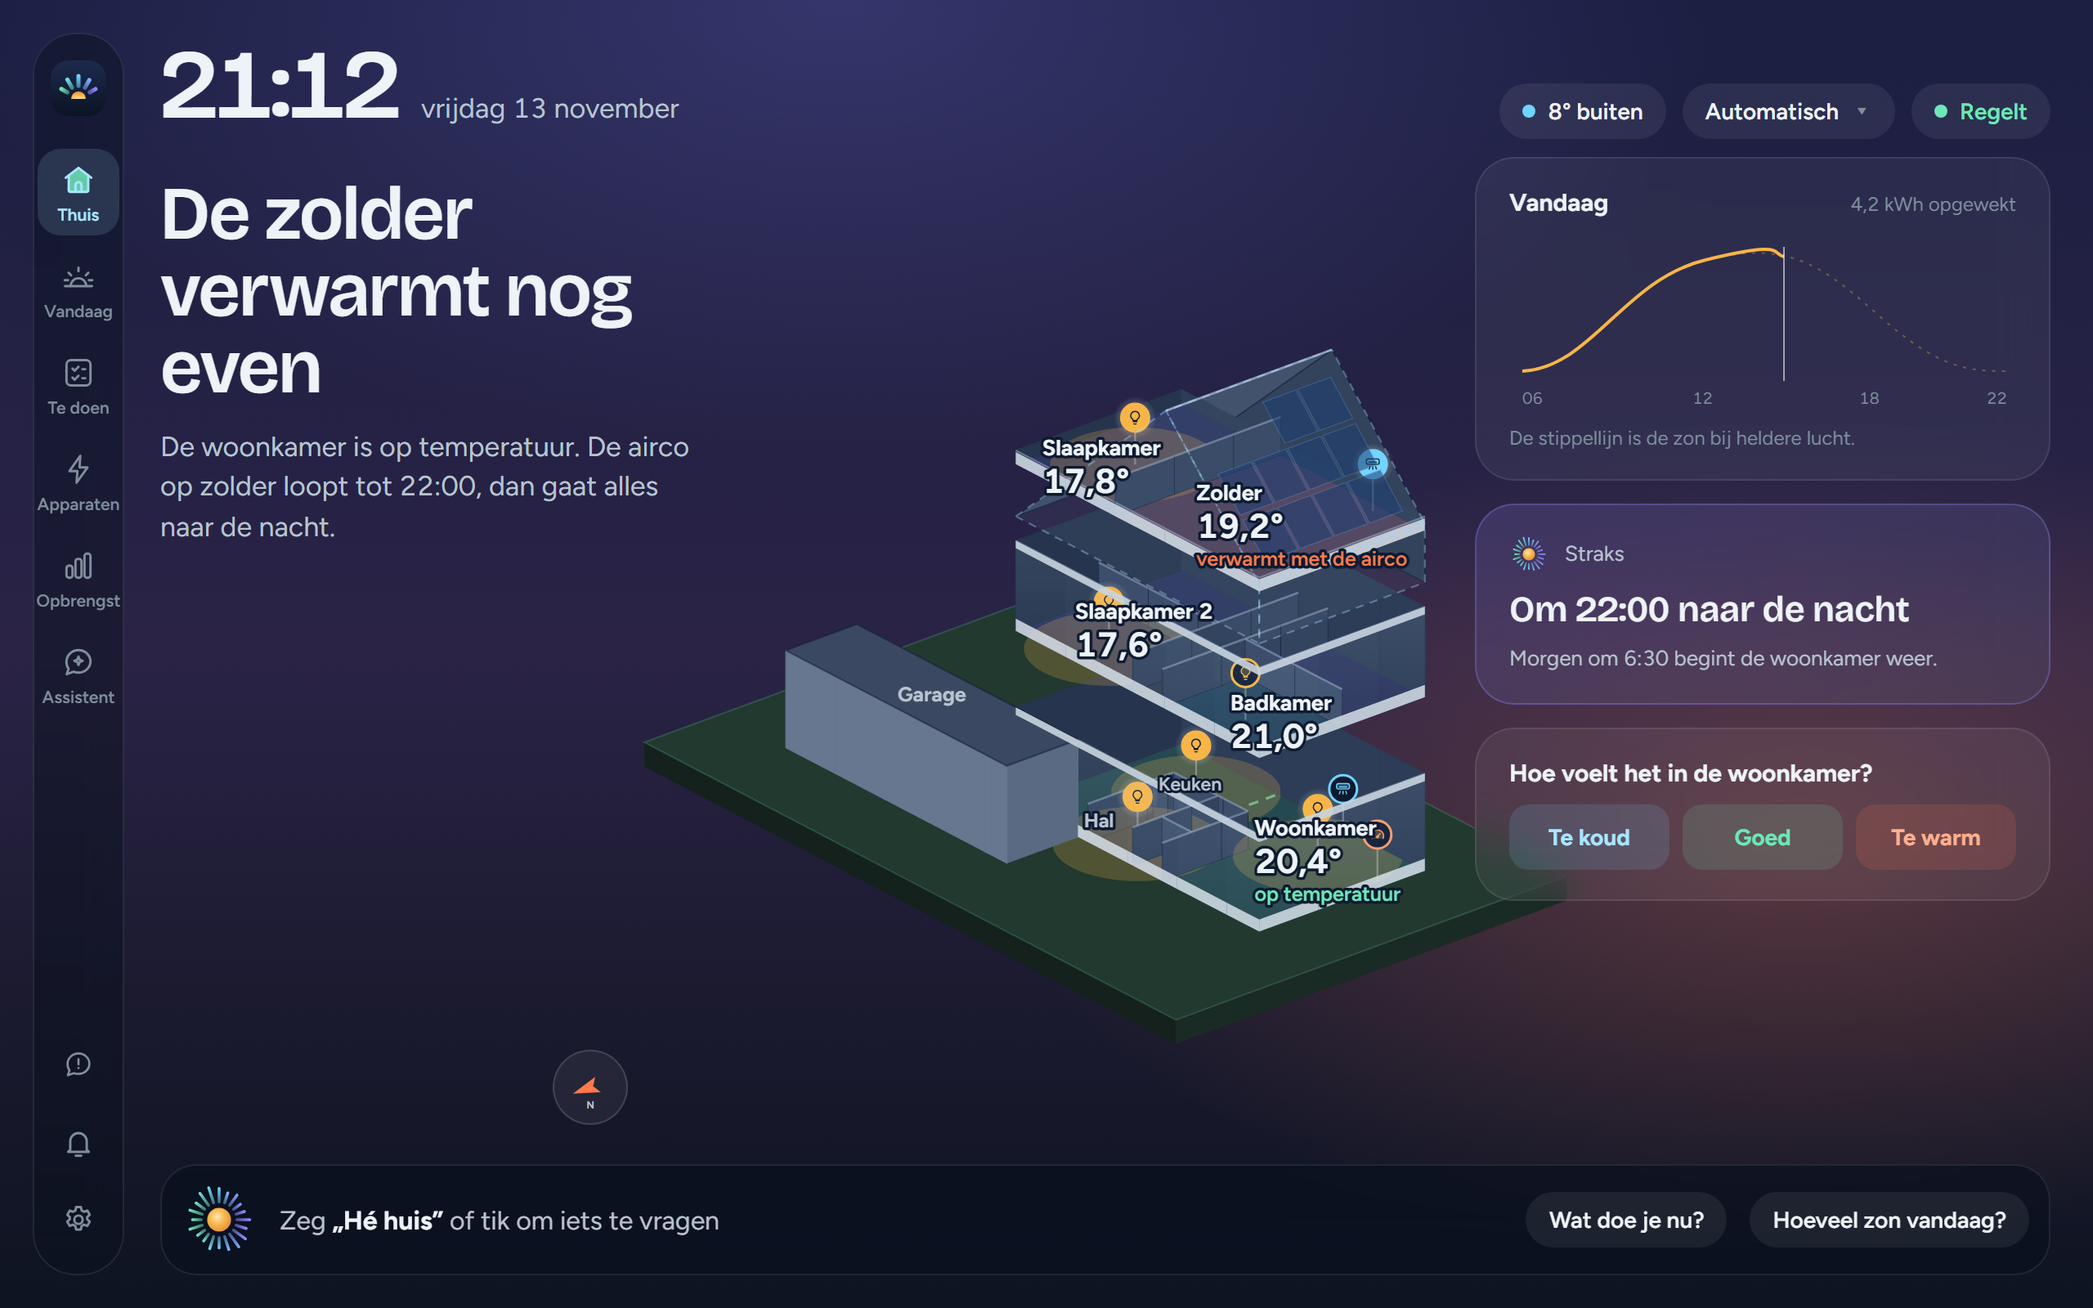
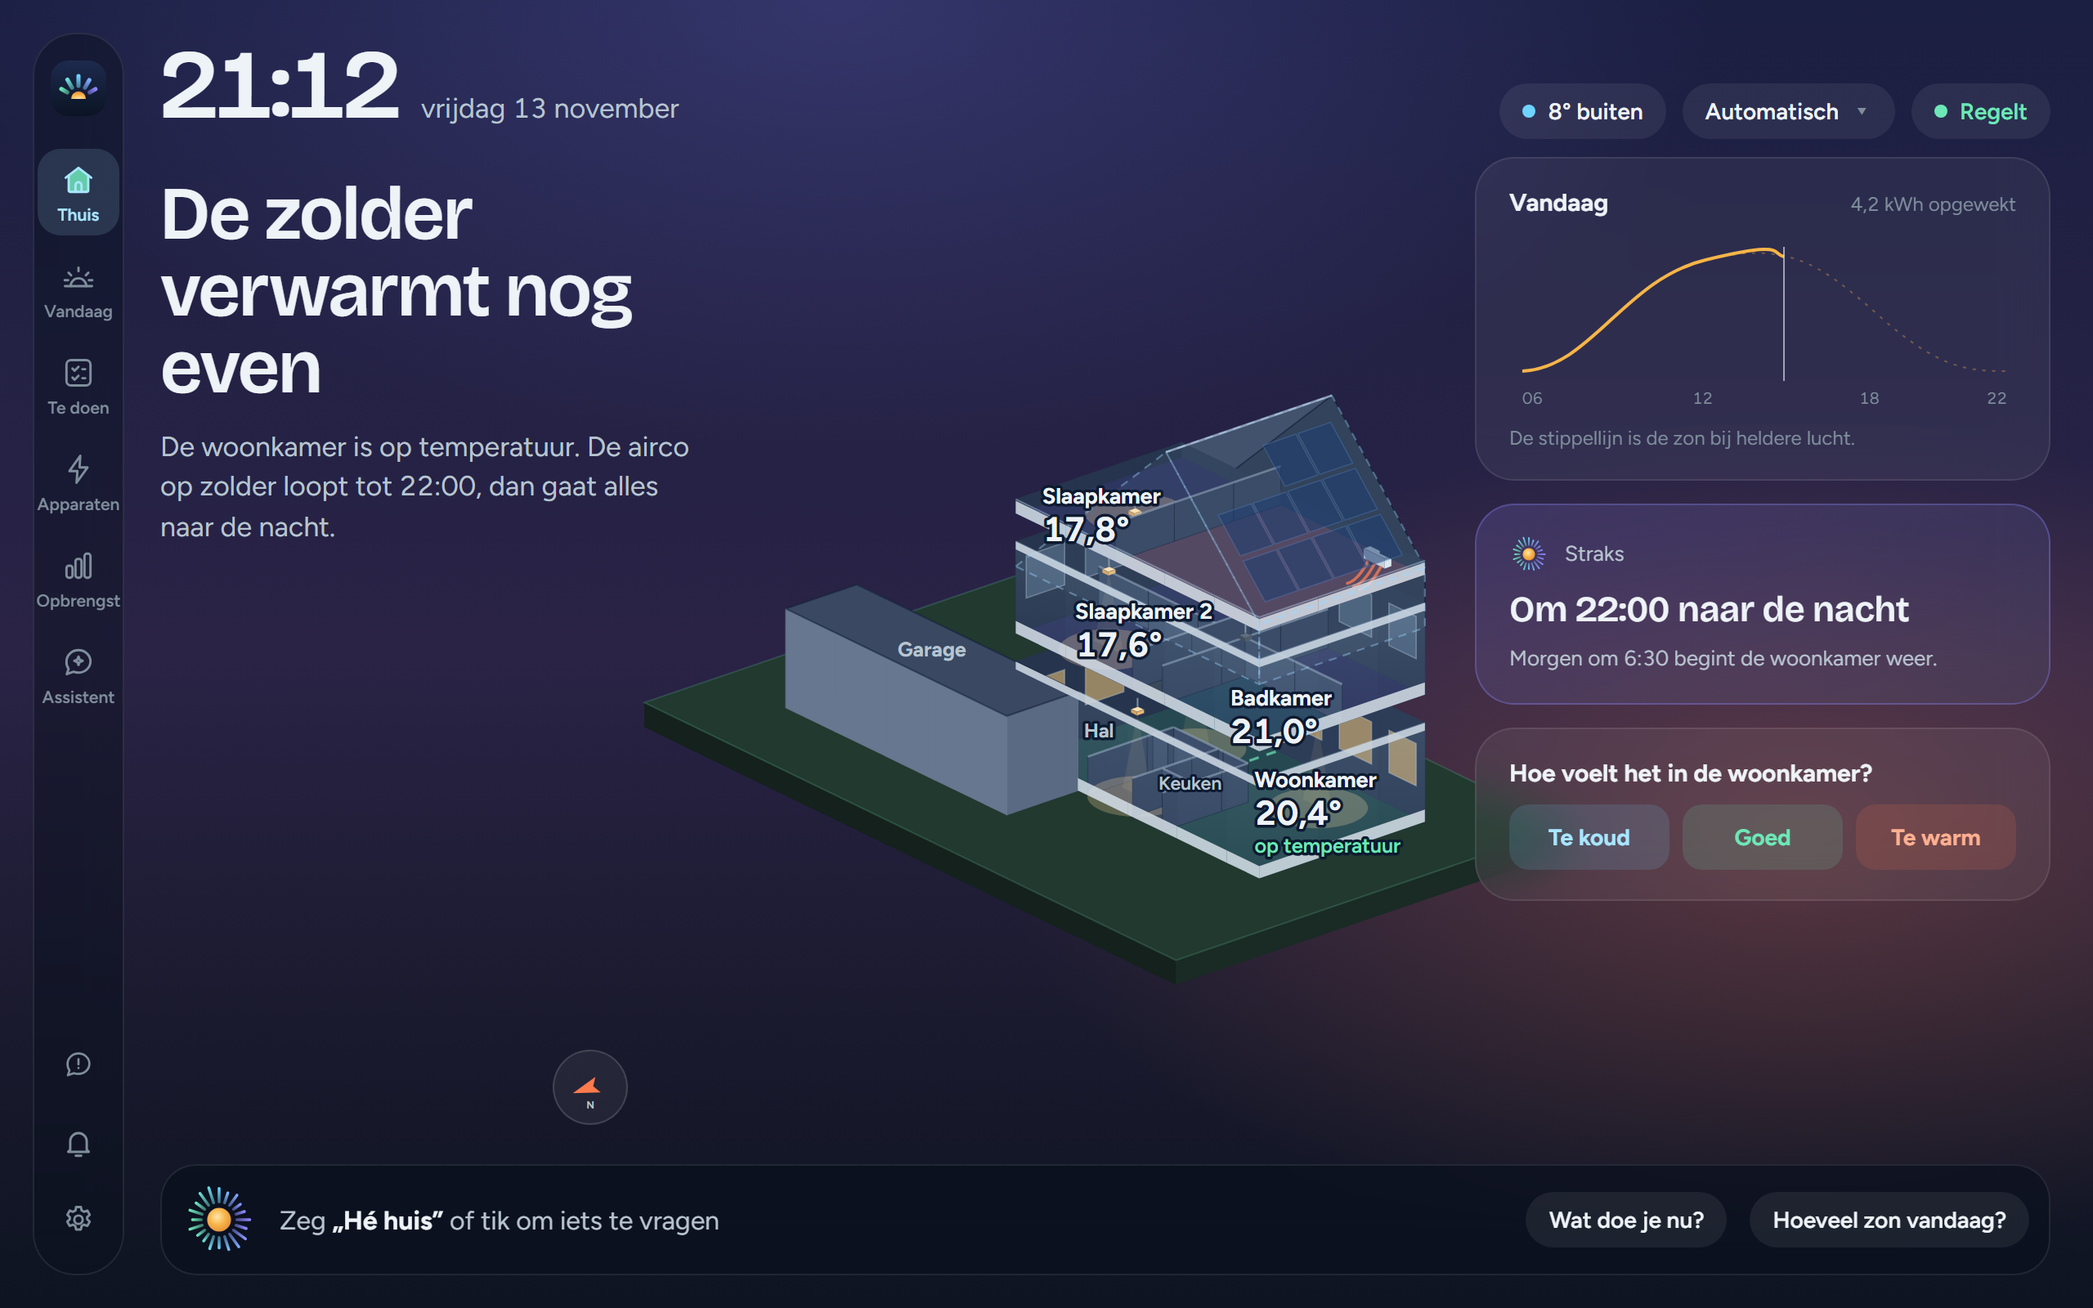
Schets huis op maat: apparaten als in het poppenhuis, geen bolletjes
Ricardo vond de bolletjes onrustig en het poppenhuis van main mooier; zijn
keuze: het poppenhuis op de echte vorm. Een airco is een witte kast hoog aan
de muur met luchtstroompjes, een lamp een hanglamp met licht op de vloer,
witgoed een kast met trommel tegen de muur; meters, rookmelders,
thermostaten en camera's tekent het niet, zoals het poppenhuis. Ramen in de
muren (warm 's avonds), tuinlampjes en een zonnescherm buiten. De etages
dichter op elkaar en wat lager gekeken; passend: 'huis' zet het huis groot
in beeld.

Changed region(s): [[0.3125, 0.25, 0.75, 0.7812]]

diff --git a/frontend/kit/huis-maat.js b/frontend/kit/huis-maat.js
@@ -28,7 +28,6 @@
  *             vlakken [{ p: [[x, y]...], soort: terras | oprit | pad | border }],
  *             gebouwen [{ x, y, b, d, h, dak?, naam?, buur? }] (een tuinhuis; buur: het huis ernaast, als schim),
  *             auto { x, y, b, d, kleur, laadt? }, apparaten [{ id, soort, x, y, z, naam? }]
- *   namen     de namen van de apparaten die aan staan, bij hun icoon
  */
 (function (global) {
   'use strict';
@@ -158,8 +157,10 @@
       return { b, ...d };
     });
     // Passend maken: alles wat er staat in beeld, met ruimte eromheen.
-    const punten = [...eiland.map(([x, y]) => [x, y, -0.7]), ...eiland.map(([x, y]) => [x, y, 0]), ...lagen.flatMap((l) => [[X0, Y0, l.top], [X1, Y0, l.top], [X1, Y1, l.top], [X0, Y1, l.top]]), ...daken.flatMap((d) => d.vlakken.flatMap((v) => v.p))];
-    for (const q of buiten.gebouwen ?? []) if (!q.buur) punten.push([q.x, q.y, q.h + 1.5], [q.x + q.b, q.y + q.d, 0]);
+    // Passend: om alles wat er staat, of (passend: 'huis') alleen om het huis, zodat het groot in beeld staat en de tuin eromheen wegloopt.
+    const alleenHuis = o.passend === 'huis';
+    const punten = [...(alleenHuis ? [] : eiland.map(([x, y]) => [x, y, -0.7])), ...(alleenHuis ? [[X0 - 1, Y0 - 1, 0], [X1 + 1, Y0 - 1, 0], [X1 + 1, Y1 + 1, 0], [X0 - 1, Y1 + 1, 0]] : eiland.map(([x, y]) => [x, y, 0])), ...lagen.flatMap((l) => [[X0, Y0, l.top], [X1, Y0, l.top], [X1, Y1, l.top], [X0, Y1, l.top]]), ...daken.flatMap((d) => d.vlakken.flatMap((v) => v.p))];
+    if (!alleenHuis) for (const q of buiten.gebouwen ?? []) if (!q.buur) punten.push([q.x, q.y, q.h + 1.5], [q.x + q.b, q.y + q.d, 0]);
     const kp = punten.map((p) => kaal(...p));
     const rand = o.rand ?? 18;
     const [minX, maxX, minY, maxY] = [Math.min(...kp.map((p) => p[0])), Math.max(...kp.map((p) => p[0])), Math.min(...kp.map((p) => p[1])), Math.max(...kp.map((p) => p[1]))];
@@ -177,16 +178,28 @@
     let s = `<defs><radialGradient id="hm-gloed"><stop offset="0" stop-color="#fff" stop-opacity="0.9"/><stop offset="1" stop-color="#fff" stop-opacity="0"/></radialGradient><linearGradient id="hm-glas" x1="0" y1="0" x2="0" y2="1"><stop offset="0" stop-color="#bfe6ff" stop-opacity="0.10"/><stop offset="1" stop-color="#bfe6ff" stop-opacity="0.03"/></linearGradient></defs>`;
 
     const labels = [];
-    /** Een apparaat als rond icoon, zoals bij Je huis; wat draait, gloeit. Met `namen` ook de naam eronder. */
-    const icoon = (b, a, kleur, draait) => {
-      const R = o.icoon ?? 8.5;
-      const naam = global.iconen?.heeft?.(a.soort) ? a.soort : { meter: 'klimaat', rookmelder: 'melding' }[a.soort] ?? 'apparaat';
-      const svg = global.iconen ? global.iconen.svg(global.iconen.heeft(naam) ? naam : 'apparaat').replace('<svg ', `<svg x="${(b[0] - R * 0.62).toFixed(1)}" y="${(b[1] - R * 0.62).toFixed(1)}" width="${(R * 1.24).toFixed(1)}" height="${(R * 1.24).toFixed(1)}" style="color:${draait ? '#0d1a30' : kleur}" `) : '';
-      let x2 = `<circle cx="${b[0].toFixed(1)}" cy="${b[1].toFixed(1)}" r="${R}" fill="${draait ? kleur : '#0d1a30'}" stroke="${kleur}" stroke-width="1.5"/>${svg}`;
-      if (draait && o.namen && a.naam && !o.stil) labels.push({ x: b[0] - a.naam.length * 3, y: b[1] + R + 2, b: a.naam.length * 6, h: 13, prio: 0.5, s: `<text x="${b[0].toFixed(1)}" y="${(b[1] + R + 13).toFixed(1)}" text-anchor="middle" ${FONT} font-size="10.5" font-weight="700" fill="${kleur}" paint-order="stroke" stroke="#0d1a30" stroke-width="3" stroke-linejoin="round">${esc(a.naam)}</text>` });
-      return x2;
+    /** Een doos van x0..x1, y0..y1, z0..z1: de twee zijkanten naar de kijker en de bovenkant. Kleuren: [boven, zijkant x, zijkant y]. */
+    const doos3 = (x0, x1, y0, y1, z0, z1, kl) => {
+      const [a0, a1] = [Math.min(x0, x1), Math.max(x0, x1)];
+      const [b0, b1] = [Math.min(y0, y1), Math.max(y0, y1)];
+      const xKant = naarKijker(-1, 0) ? a0 : a1;
+      const yKant = naarKijker(0, -1) ? b0 : b1;
+      const zx = `<path d="${vlak([[xKant, b0, z0], [xKant, b1, z0], [xKant, b1, z1], [xKant, b0, z1]])}" fill="${kl[1]}"/>`;
+      const zy = `<path d="${vlak([[a0, yKant, z0], [a1, yKant, z0], [a1, yKant, z1], [a0, yKant, z1]])}" fill="${kl[2]}"/>`;
+      return zx + zy + `<path d="${vlak([[a0, b0, z1], [a1, b0, z1], [a1, b1, z1], [a0, b1, z1]])}" fill="${kl[0]}" stroke="rgb(13 26 48 / 0.25)" stroke-width="0.5"/>`;
     };
-    // Het eiland: de zijkanten naar de kijker, dan het gras.
+    /** Een cirkel op een staand vlak (de trommel van een droger): `as` is de as waar het vlak haaks op staat. */
+    const cirkel = (cx, cy, cz, r, as, attr) => {
+      const pp = [];
+      for (let i = 0; i < 18; i++) {
+        const h = (i / 18) * 2 * Math.PI;
+        pp.push(as === 'x' ? [cx, cy + Math.cos(h) * r, cz + Math.sin(h) * r] : [cx + Math.cos(h) * r, cy, cz + Math.sin(h) * r]);
+      }
+      return `<path d="${vlak(pp)}" ${attr}/>`;
+    };
+    const KAST = ['#eef3f7', '#dfe7ee', '#c3ced8'];
+    const WIT = ['#e9eef2', '#d7dee5', '#b9c3cd'];
+    // Het eiland    // Het eiland: de zijkanten naar de kijker, dan het gras.
     const zijden = [];
     for (let i = 0; i < 4; i++) {
       const [a, b] = [eiland[i], eiland[(i + 1) % 4]];
@@ -329,6 +342,14 @@
       }
       const stukken = [];
       const muren = randen(v, isMuur);
+      // In welke ruimtes een lamp aan staat (voor de ramen 's avonds).
+      const lichtIn = new Set();
+      {
+        const was1 = st.etage;
+        st.etage = laag.e.id;
+        for (const q of t.apparaatPunten()) if (q.a.soort === 'licht' && aan.has(q.a.id)) lichtIn.add(q.ruimte);
+        st.etage = was1;
+      }
       for (const run of muren) {
         const mid = Math.floor((run.van + run.tot) / 2);
         // Aan welke kant ligt de ruimte, en waar kijkt de muur heen.
@@ -351,28 +372,103 @@
             stukken.push({ d: d - 50, s: muur(z0, z0 + 0.35, '#d7e0e9', 'fill-opacity="0.85"') + muur(z0 + 0.35, top, 'url(#hm-glas)') + `<path d="M${pt(x0, y0, top)}L${pt(x1, y1, top)}" stroke="#cfe6ff" stroke-opacity="0.35" stroke-width="1"/>` });
           } else {
             const vul = voor ? (run.as === 'x' ? '#5a6a83' : '#66778f') : run.as === 'x' ? '#26354d' : '#2d3d57';
-            stukken.push({ d: voor ? d - 50 : d, s: muur(z0, top, vul, `stroke="${vul}" stroke-width="0.6"`) });
+            let raam = '';
+            // Een raam in elk stuk muur van een kamer (niet in een garage), zoals in het poppenhuis.
+            if (!dicht && (b - a) * CEL >= 1.4 && top - z0 >= 2) {
+              const r0 = 0.35 / ((b - a) * CEL);
+              const [rx0, ry0, rx1, ry1] = [x0 + (x1 - x0) * r0, y0 + (y1 - y0) * r0, x1 - (x1 - x0) * r0, y1 - (y1 - y0) * r0];
+              const warm = o.avond && lichtIn.has(binnen);
+              raam = `<path d="${vlak([[rx0, ry0, z0 + 0.9], [rx1, ry1, z0 + 0.9], [rx1, ry1, Math.min(top - 0.3, z0 + 2.1)], [rx0, ry0, Math.min(top - 0.3, z0 + 2.1)]])}" fill="${warm ? '#f3c77a' : '#8fb4d6'}" fill-opacity="${warm ? 0.55 : 0.28}" stroke="#c9d6e2" stroke-opacity="0.35" stroke-width="0.8"/>`;
+            }
+            stukken.push({ d: voor ? d - 50 : d, s: muur(z0, top, vul, `stroke="${vul}" stroke-width="0.6"`) + raam });
           }
         }
       }
-      // De apparaten van deze etage: een stip op ooghoogte met een steeltje.
+      // De apparaten van deze etage, zoals in het poppenhuis: een airco hoog aan de muur, een hanglamp,
+      // witgoed tegen de muur. Wat je niet ziet in een kamer (meters, rookmelders, thermostaten) blijft weg: dat is rustiger.
       const was = st.etage;
       st.etage = laag.e.id;
       const punten = t.apparaatPunten();
       st.etage = was;
+      /** De muur het dichtst bij een punt (in ruitjes), met de kant waar het punt ligt. */
+      const wandBij = (cx, cy) => {
+        let best = null;
+        for (const run of muren) {
+          const [langs, dwars] = run.as === 'x' ? [cy, cx] : [cx, cy];
+          if (langs < run.van || langs > run.tot) continue;
+          const afst = Math.abs(dwars - run.op) - (run.soort === 2 ? 3 : 0);
+          if (!best || afst < best.afst) best = { run, afst, kant: dwars >= run.op ? 1 : -1, langs };
+        }
+        return best;
+      };
+      /** Een doos tegen een muur: `b` langs de muur, `d` de kamer in, van hoogte za tot zb. */
+      const tegenMuur = (w, b, d, za, zb, kl) => {
+        const { run, kant } = w;
+        const half = b / 2;
+        const midden = Math.min(m(run.tot) - half - 0.05, Math.max(m(run.van) + half + 0.05, m(w.langs)));
+        const vlakMuur = m(run.op) + kant * 0.03;
+        const diepte = vlakMuur + kant * d;
+        const [x0, x1, y0, y1] = run.as === 'x' ? [vlakMuur, diepte, midden - half, midden + half] : [midden - half, midden + half, vlakMuur, diepte];
+        return { s: doos3(x0, x1, y0, y1, za, zb, kl), x0, x1, y0, y1, midden, diepte, as: run.as, kant };
+      };
       for (const q of punten) {
-        const [x, y] = [m(q.x), m(q.y)];
-        const a = P(x, y, z0);
-        const b = P(x, y, z0 + 1.35);
-        const kleur = APP_KLEUR[q.a.soort] ?? '#eef3f7';
+        const soort = q.a.soort;
         const draait = aan.has(q.a.id);
-        const licht = draait && o.avond && q.a.soort === 'licht';
+        const [x, y] = [m(q.x), m(q.y)];
         let x2 = '';
-        if (licht) x2 += `<ellipse cx="${a[0].toFixed(1)}" cy="${a[1].toFixed(1)}" rx="${(2.2 * k).toFixed(1)}" ry="${(2.2 * k * sp).toFixed(1)}" fill="#f7b548" fill-opacity="0.22"/>`;
-        x2 += `<path d="M${a[0].toFixed(1)} ${a[1].toFixed(1)}L${b[0].toFixed(1)} ${b[1].toFixed(1)}" stroke="rgb(255 255 255 / 0.3)" stroke-width="1.1"/>`;
-        if (draait) x2 += `<circle cx="${b[0].toFixed(1)}" cy="${b[1].toFixed(1)}" r="13" fill="url(#hm-gloed)" opacity="0.55" style="mix-blend-mode:screen"/><circle cx="${b[0].toFixed(1)}" cy="${b[1].toFixed(1)}" r="9" fill="${kleur}" fill-opacity="0.35"/>`;
-        x2 += icoon(b, q.a, kleur, draait);
-        stukken.push({ d: diep(x, y) - 0.1, s: x2 });
+        let d = diep(x, y);
+        if (soort === 'airco') {
+          const w = wandBij(q.x, q.y);
+          if (!w) continue;
+          const doos = tegenMuur(w, 0.85, 0.22, top - 0.6, top - 0.32, KAST);
+          x2 += doos.s;
+          d = diep((doos.x0 + doos.x1) / 2, (doos.y0 + doos.y1) / 2);
+          if (draait) {
+            // Drie zachte stromen lucht naar de kamer, warm of koel.
+            const kleur = kamerInfo[t.st.apparaten.find((a) => a.id === q.a.id)?.kamer]?.toon === 'koelt' ? '#6fd3ff' : '#ff7a4d';
+            for (let i = -1; i <= 1; i++) {
+              const langs = doos.midden + i * 0.25;
+              const van = doos.as === 'x' ? [doos.diepte, langs, top - 0.62] : [langs, doos.diepte, top - 0.62];
+              const naar = doos.as === 'x' ? [doos.diepte + doos.kant * 0.7, langs, top - 1.05] : [langs, doos.diepte + doos.kant * 0.7, top - 1.05];
+              const a = P(...van);
+              const b = P(...naar);
+              x2 += `<path d="M${a[0].toFixed(1)} ${a[1].toFixed(1)}Q${((a[0] + b[0]) / 2).toFixed(1)} ${((a[1] + b[1]) / 2 + 5).toFixed(1)} ${b[0].toFixed(1)} ${b[1].toFixed(1)}" stroke="${kleur}" stroke-width="1.8" stroke-linecap="round" fill="none" opacity="0.75"/>`;
+            }
+          }
+        } else if (soort === 'licht') {
+          // Een hanglamp: een snoer, een kap, en aan een vlek licht op de vloer.
+          const kap = top - 0.42;
+          const s0 = P(x, y, top);
+          const s1 = P(x, y, kap + 0.1);
+          if (draait) {
+            const v0 = P(x, y, z0 + 0.01);
+            x2 += `<ellipse cx="${v0[0].toFixed(1)}" cy="${v0[1].toFixed(1)}" rx="${(1.3 * k).toFixed(1)}" ry="${(1.3 * k * sp).toFixed(1)}" fill="#ffd9a0" fill-opacity="${o.avond ? 0.26 : 0.1}"/>`;
+            const l = P(x - 0.6, y, z0 + 0.05);
+            const r = P(x + 0.6, y, z0 + 0.05);
+            const b = P(x, y, kap);
+            x2 += `<path d="M${b[0].toFixed(1)} ${b[1].toFixed(1)}L${l[0].toFixed(1)} ${l[1].toFixed(1)}L${r[0].toFixed(1)} ${r[1].toFixed(1)}Z" fill="#ffd9a0" fill-opacity="${o.avond ? 0.09 : 0.04}"/>`;
+          }
+          x2 += `<path d="M${s0[0].toFixed(1)} ${s0[1].toFixed(1)}L${s1[0].toFixed(1)} ${s1[1].toFixed(1)}" stroke="#8090a0" stroke-width="1"/>`;
+          x2 += doos3(x - 0.12, x + 0.12, y - 0.12, y + 0.12, kap, kap + 0.1, draait ? ['#ffe2b0', '#e8b878', '#d6a565'] : ['#5c6876', '#4a5664', '#3c4755']);
+        } else if (/droger|wasmachine|vaat/.test(soort)) {
+          const w = wandBij(q.x, q.y);
+          if (!w) continue;
+          const doos = tegenMuur(w, 0.6, 0.6, z0, z0 + 0.85, WIT);
+          x2 += doos.s;
+          d = diep((doos.x0 + doos.x1) / 2, (doos.y0 + doos.y1) / 2);
+          if (soort !== 'vaat') {
+            const c = doos.as === 'x' ? [doos.diepte + doos.kant * 0.001, doos.midden, z0 + 0.42] : [doos.midden, doos.diepte + doos.kant * 0.001, z0 + 0.42];
+            x2 += cirkel(...c, 0.18, doos.as, 'fill="#5e6c7b" stroke="#9aa7b4" stroke-width="1.2"');
+            if (draait) x2 += cirkel(...c, 0.12, doos.as, 'fill="none" stroke="#f7b548" stroke-width="1.6" stroke-dasharray="3 3"');
+          }
+        } else if (soort === 'accu') {
+          const w = wandBij(q.x, q.y);
+          if (!w) continue;
+          const doos = tegenMuur(w, 0.5, 0.2, z0 + 0.05, z0 + 0.95, KAST);
+          x2 += doos.s;
+          d = diep((doos.x0 + doos.x1) / 2, (doos.y0 + doos.y1) / 2);
+        } else continue;
+        stukken.push({ d: d - 0.1, s: x2 });
       }
       stukken.sort((a, b) => b.d - a.d);
       s += stukken.map((x) => x.s).join('');
@@ -448,16 +544,40 @@
 
     s += tekenBuiten(voorHuis);
     for (const a of buiten.apparaten ?? []) {
-      const kleur = APP_KLEUR[a.soort] ?? '#eef3f7';
       const draait = aan.has(a.id);
-      const v0 = P(a.x, a.y, 0);
-      const b = P(a.x, a.y, a.z ?? 1.4);
-      if (draait && a.soort === 'licht' && o.avond) s += `<ellipse cx="${v0[0].toFixed(1)}" cy="${v0[1].toFixed(1)}" rx="${(2 * k).toFixed(1)}" ry="${(2 * k * sp).toFixed(1)}" fill="#f7b548" fill-opacity="0.2"/>`;
-      s += `<path d="M${v0[0].toFixed(1)} ${v0[1].toFixed(1)}L${b[0].toFixed(1)} ${b[1].toFixed(1)}" stroke="rgb(255 255 255 / 0.3)" stroke-width="1.1"/>`;
-      if (draait) s += `<circle cx="${b[0].toFixed(1)}" cy="${b[1].toFixed(1)}" r="15" fill="url(#hm-gloed)" opacity="0.5"/>`;
-      s += icoon(b, a, kleur, draait);
+      if (a.soort === 'licht') {
+        const v0 = P(a.x, a.y, 0.02);
+        if (draait) s += `<ellipse cx="${v0[0].toFixed(1)}" cy="${v0[1].toFixed(1)}" rx="${(1.1 * k).toFixed(1)}" ry="${(1.1 * k * sp).toFixed(1)}" fill="#ffd9a0" fill-opacity="${o.avond ? 0.28 : 0.08}"/>`;
+        const z = a.z ?? 0.6;
+        // Laag: een tuinlampje op een paaltje; hoog: een lamp aan de muur.
+        if (z < 1.2) {
+          const p0 = P(a.x, a.y, 0);
+          const p1 = P(a.x, a.y, z);
+          s += `<path d="M${p0[0].toFixed(1)} ${p0[1].toFixed(1)}L${p1[0].toFixed(1)} ${p1[1].toFixed(1)}" stroke="#55606e" stroke-width="2"/>`;
+        }
+        const h = P(a.x, a.y, z);
+        if (draait && o.avond) s += `<circle cx="${h[0].toFixed(1)}" cy="${h[1].toFixed(1)}" r="9" fill="url(#hm-gloed)" opacity="0.55"/>`;
+        s += `<circle cx="${h[0].toFixed(1)}" cy="${h[1].toFixed(1)}" r="2.6" fill="${draait ? '#ffe2b0' : '#5c6876'}"/>`;
+      } else if (a.soort === 'screen' && a.uit) {
+        // Een zonnescherm: een doek schuin naar buiten, gestreept als hij uit staat.
+        const [ux, uy] = a.uit;
+        const b = a.b ?? 3;
+        const [lx, ly] = [-uy, ux];
+        const z = a.z ?? 2.5;
+        const lang = draait ? 1.8 : 0.25;
+        const pp = [[a.x - (lx * b) / 2, a.y - (ly * b) / 2, z], [a.x + (lx * b) / 2, a.y + (ly * b) / 2, z], [a.x + (lx * b) / 2 + ux * lang, a.y + (ly * b) / 2 + uy * lang, z - lang * 0.35], [a.x - (lx * b) / 2 + ux * lang, a.y - (ly * b) / 2 + uy * lang, z - lang * 0.35]];
+        s += `<path d="${vlak(pp)}" fill="#c9d4df" stroke="#8a98a8" stroke-width="0.8"/>`;
+        if (draait) for (let i = 1; i < 6; i += 2) {
+          const f0 = i / 6;
+          const f1 = (i + 1) / 6;
+          const lijn = (f) => [pp[0].map((n, j) => n + (pp[1][j] - n) * f), pp[3].map((n, j) => n + (pp[2][j] - n) * f)];
+          const [a0, a1] = lijn(f0);
+          const [b0, b1] = lijn(f1);
+          s += `<path d="${vlak([a0, b0, b1, a1])}" fill="#ff9a6b" fill-opacity="0.75"/>`;
+        }
+      }
     }
-    // De namen bovenop. Wat botst schuift een stukje op of neer; past het nergens, dan valt het weg. De kamers met een temperatuur gaan voor.
+        // De namen bovenop. Wat botst schuift een stukje op of neer; past het nergens, dan valt het weg. De kamers met een temperatuur gaan voor.
     labels.sort((a, b) => b.prio - a.prio);
     const gezet = [];
     for (const l of labels) {

diff --git a/design/app2/thuis-maat-schets.js b/design/app2/thuis-maat-schets.js
@@ -81,8 +81,8 @@
 
   const VOORBEELD = {
     hoek: 28,
-    lucht: 2.2,
-    hoogte: 26,
+    lucht: 0.8,
+    hoogte: 24,
     panelen: { aantal: 12, kant: 1 },
     aan: ['airco-woon', 'vaat', 'accu', 'laadpaal'],
     kamers: {
@@ -98,8 +98,8 @@
   };
   const JOUW = (avond) => ({
     hoek: 50,
-    lucht: 2.2,
-    hoogte: 26,
+    lucht: 0.8,
+    hoogte: 24,
     panelen: { aantal: 10, kant: 1 },
     avond,
     aan: avond ? ['airco-zolder', 'plafond', 'hallamp', 'keukenlamp', 'bedlamp', 'lamp2'] : ['airco-woon'],
